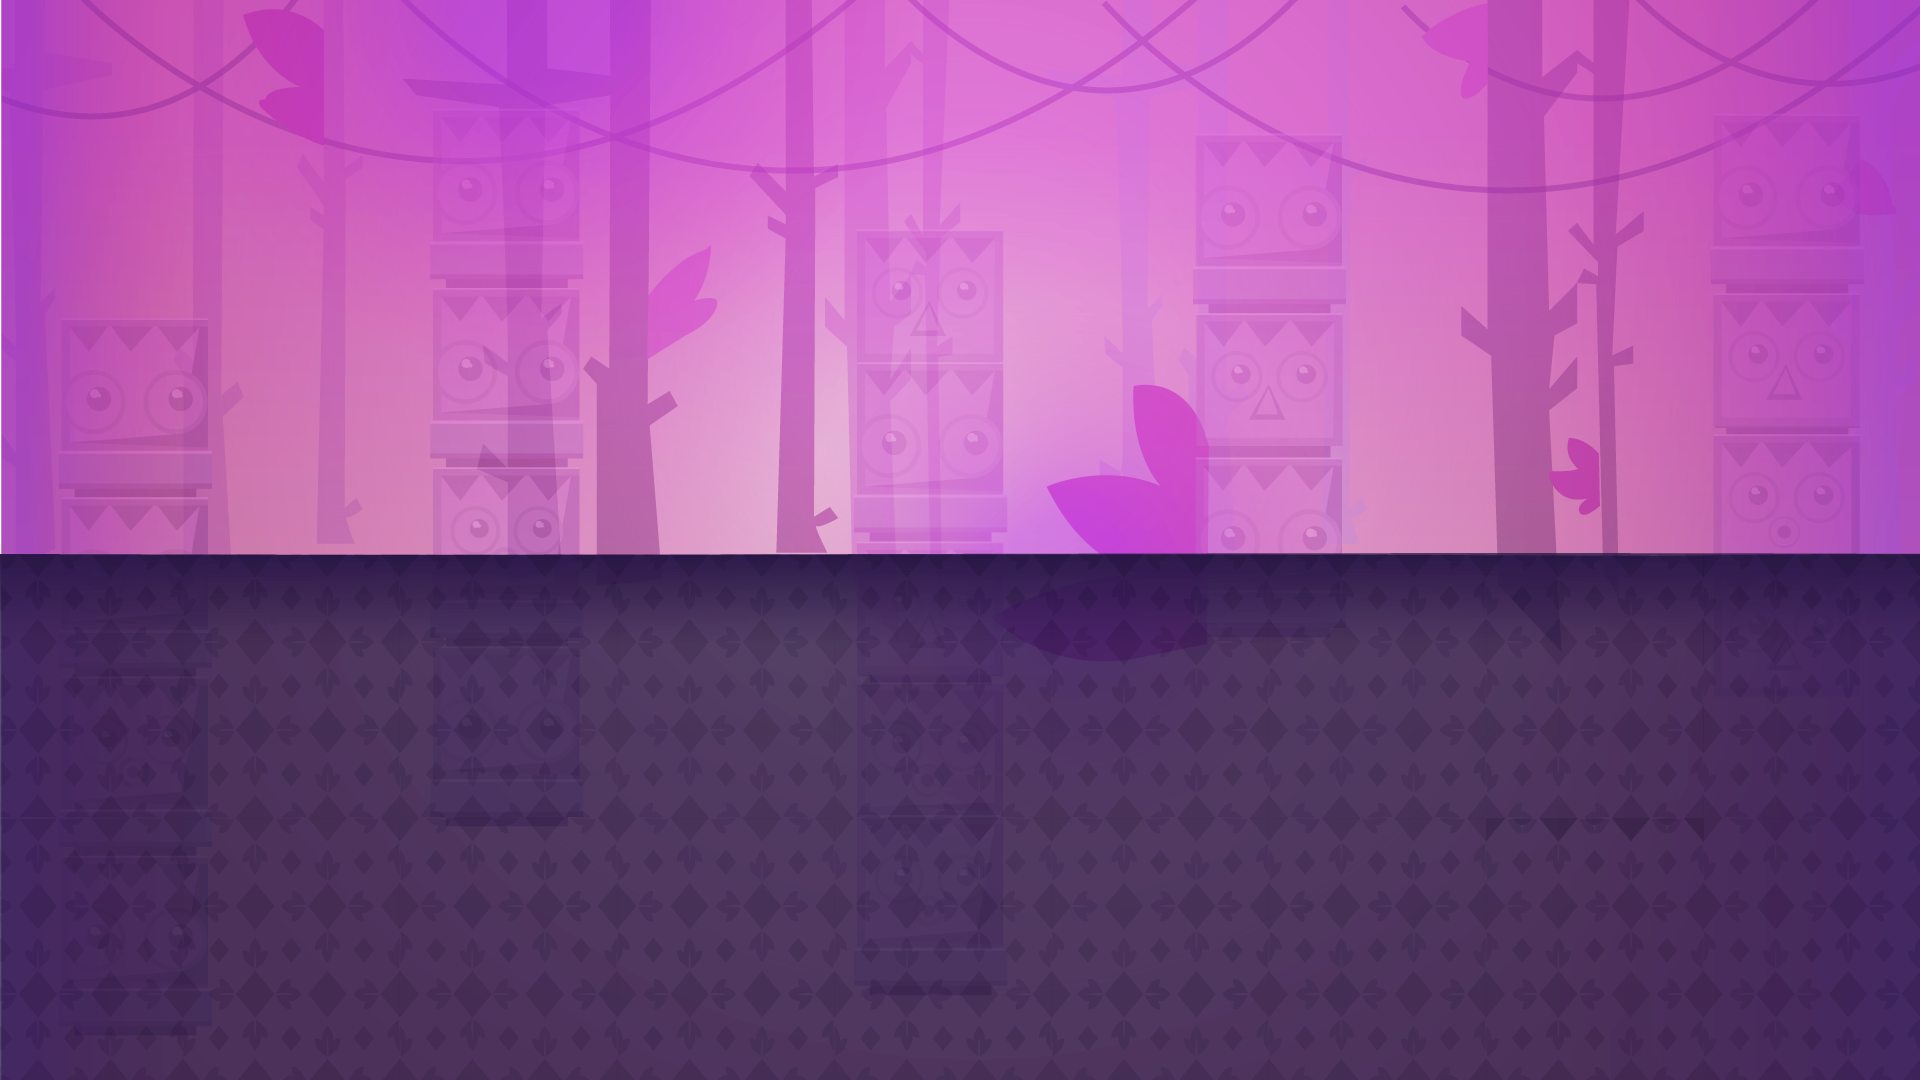
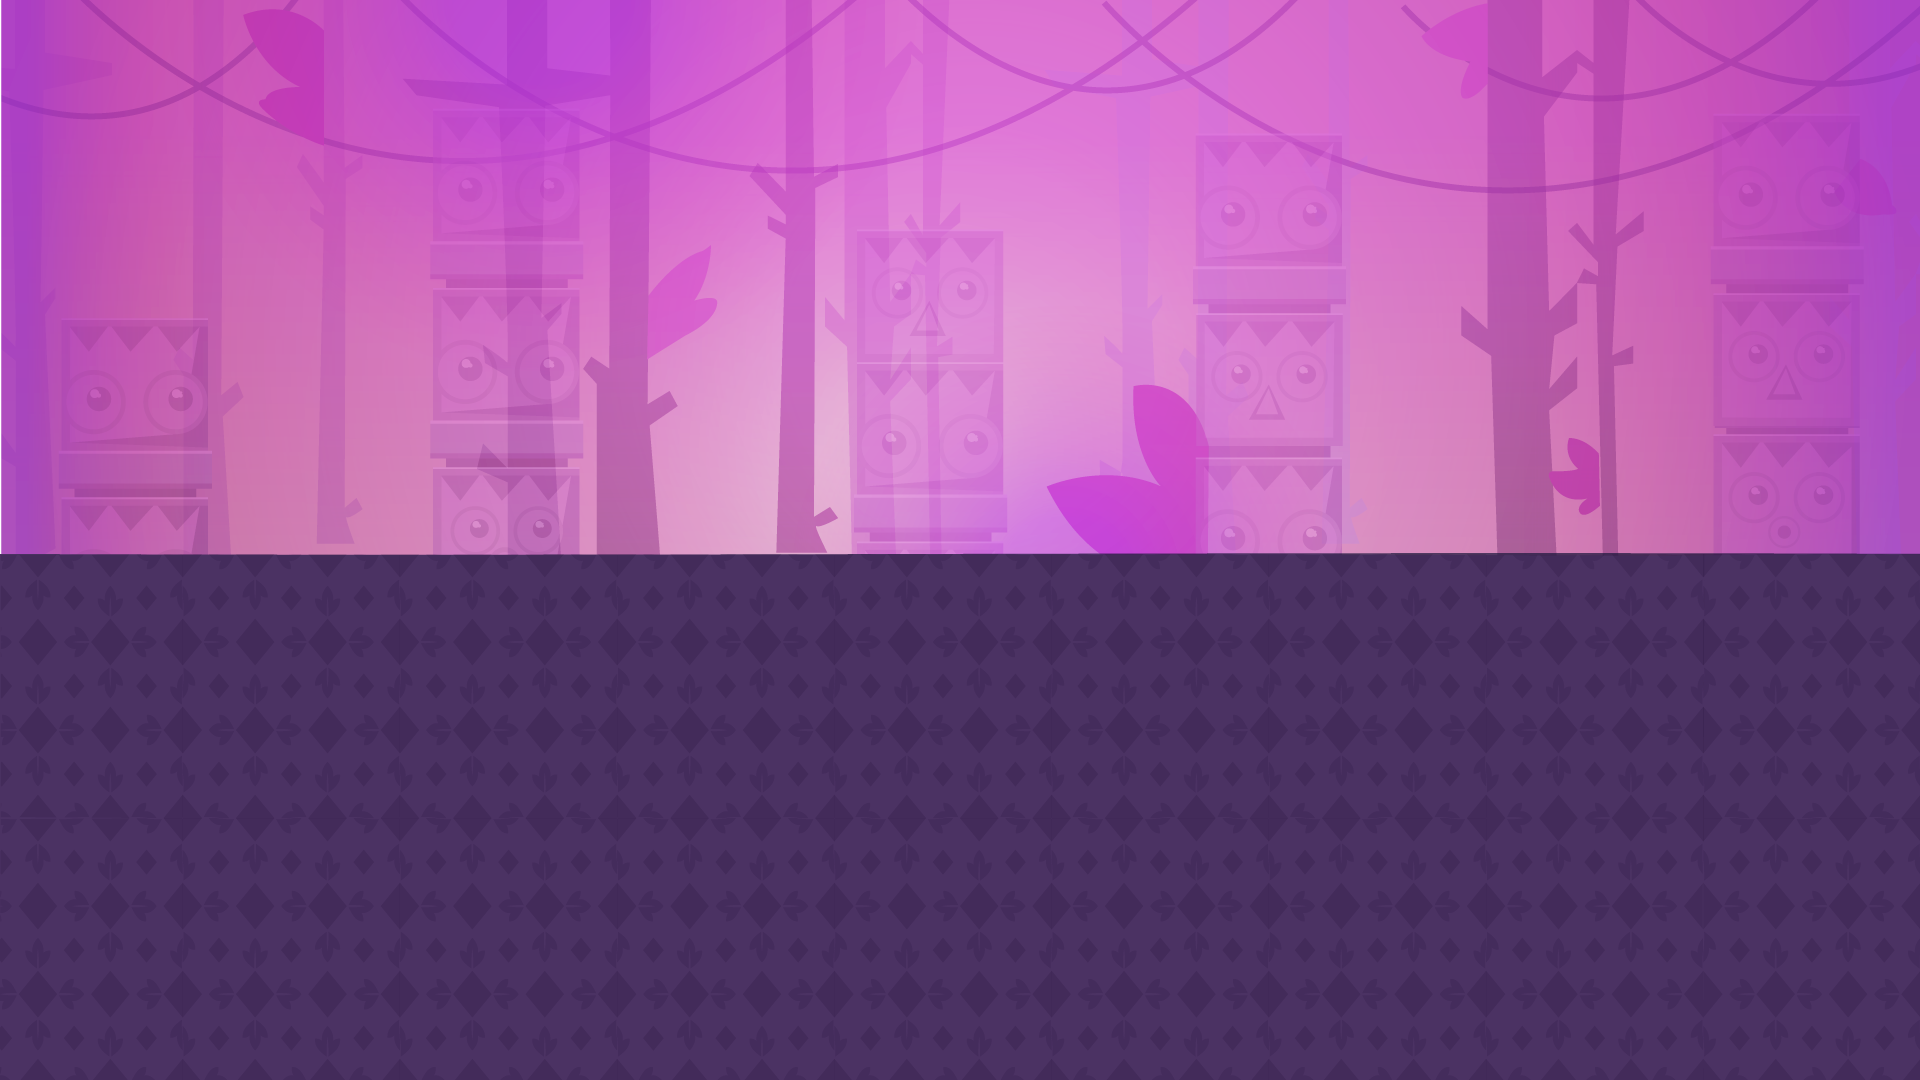
change space between barriers

Changed region(s): [[0.0, 0.4889, 1.0, 0.55]]

diff --git a/src/scenes/Level.js b/src/scenes/Level.js
@@ -42,88 +42,13 @@ class Level extends Phaser.Scene {
 		container_background.add(upper_background);
 
 		// background
-		const background = this.add.image(960, 537, "background");
+		const background = this.add.image(960, 536, "background");
 		background.name = "background";
 		container_background.add(background);
 
 		// container_barriers
 		const container_barriers = this.add.container(0, 1);
 		body.add(container_barriers);
-
-		// barrier_1
-		const barrier_1 = this.add.image(1120, 548, "blue-barrier");
-		barrier_1.setOrigin(0.5, 1);
-		container_barriers.add(barrier_1);
-
-		// barrier_2
-		const barrier_2 = this.add.image(2589, 545, "pink-barrier");
-		barrier_2.setOrigin(0.5, 0);
-		container_barriers.add(barrier_2);
-
-		// barrier_3
-		const barrier_3 = this.add.image(4032, 548, "blue-barrier");
-		barrier_3.setOrigin(0.5, 1);
-		container_barriers.add(barrier_3);
-
-		// barrier_4
-		const barrier_4 = this.add.image(4032, 545, "pink-barrier");
-		barrier_4.setOrigin(0.5, 0);
-		container_barriers.add(barrier_4);
-
-		// barrier_5
-		const barrier_5 = this.add.image(5245, 548, "blue-barrier");
-		barrier_5.setOrigin(0.5, 1);
-		container_barriers.add(barrier_5);
-
-		// barrier_6
-		const barrier_6 = this.add.image(6214, 548, "blue-barrier");
-		barrier_6.setOrigin(0.5, 1);
-		container_barriers.add(barrier_6);
-
-		// barrier_7
-		const barrier_7 = this.add.image(7187, 545, "pink-barrier");
-		barrier_7.setOrigin(0.5, 0);
-		container_barriers.add(barrier_7);
-
-		// barrier_8
-		const barrier_8 = this.add.image(8257, 548, "blue-barrier");
-		barrier_8.setOrigin(0.5, 1);
-		container_barriers.add(barrier_8);
-
-		// barrier_9
-		const barrier_9 = this.add.image(9330, 545, "pink-barrier");
-		barrier_9.setOrigin(0.5, 0);
-		container_barriers.add(barrier_9);
-
-		// barrier_10
-		const barrier_10 = this.add.image(10691, 548, "blue-barrier");
-		barrier_10.setOrigin(0.5, 1);
-		container_barriers.add(barrier_10);
-
-		// barrier_11
-		const barrier_11 = this.add.image(10691, 606.5, "pink-barrier");
-		barrier_11.setOrigin(0.5, 0);
-		container_barriers.add(barrier_11);
-
-		// barrier_12
-		const barrier_12 = this.add.image(12316, 428, "blue-barrier");
-		barrier_12.setOrigin(0.5, 1);
-		container_barriers.add(barrier_12);
-
-		// barrier_13
-		const barrier_13 = this.add.image(12316, 632, "pink-barrier");
-		barrier_13.setOrigin(0.5, 0);
-		container_barriers.add(barrier_13);
-
-		// barrier_14
-		const barrier_14 = this.add.image(13370, 701.7000122070312, "pink-barrier");
-		barrier_14.setOrigin(0.5, 0);
-		container_barriers.add(barrier_14);
-
-		// barrier_15
-		const barrier_15 = this.add.image(14157, 545, "pink-barrier");
-		barrier_15.setOrigin(0.5, 0);
-		container_barriers.add(barrier_15);
 
 		// container_balls
 		const container_balls = this.add.container(0, -7);
@@ -144,7 +69,7 @@ class Level extends Phaser.Scene {
 		// score_text
 		const score_text = this.add.text(834, 55, "", {});
 		score_text.setOrigin(0, 0.5);
-		score_text.text = "Score:   00";
+		score_text.text = "Score:   00 ";
 		score_text.setStyle({ "align": "center", "color": "#431b59", "fontFamily": "Bungee", "fontSize": "40px", "fontStyle": "italic" });
 		container_score.add(score_text);
 
@@ -268,7 +193,7 @@ class Level extends Phaser.Scene {
 			if (!this.scene.isPaused("Level")) {
 				this.score++;
 			}
-		}, 100);
+		}, 500);
 	}
 	clearTimer() {
 		clearInterval(this.scoreInterval);
@@ -307,26 +232,27 @@ class Level extends Phaser.Scene {
 		localStorage.setItem("shadowLeapCurrentScore", 0);
 		this.nSpeed = 20;
 		this.isPointerDown = false;
-		this.gameOver = false;
+		this.gameOver = true;
 		this.clearTimer();
 		this.barriarGroup = this.add.group();
 		this.ballGroup = this.physics.add.group();
-
+		
 		this.oInputManager.buttonClick(this.retry_button);
 		this.oInputManager.buttonClick(this.home_button);
 		this.oInputManager.buttonClick(this.sound_button);
 		this.oInputManager.buttonClick(this.music_button);
-
-		this.upper_ball = this.ballGroup.create(188, 543, "fire-ball")
+		
+		this.upper_ball = this.ballGroup.create(188, 544, "fire-ball")
 		this.upper_ball.setOrigin(0.5, 1);
 		this.upper_ball.body.setCircle(65, 55, 36).setGravityY(3000).setCollideWorldBounds(true);
 		this.container_balls.add(this.upper_ball);
 		this.lower_ball = this.ballGroup.create(188, 541, "Ice-ball");
 		this.lower_ball.setOrigin(0.5, 0);
-		this.lower_ball.body.setCircle(65, 55, 40).setGravityY(-3000).setCollideWorldBounds(true);
+		this.lower_ball.body.setCircle(65, 55, 40).setGravityY(-3000).setCollideWorldBounds(true).setBounceY(0.9);
 		this.container_balls.add(this.lower_ball);
-
+		
 		this.particalAnimation();
+		this.setBarriers();
 
 		this.container_background.list.forEach((background) => {
 			if (background.name != "background") {
@@ -335,34 +261,12 @@ class Level extends Phaser.Scene {
 				background.body.setOffset(0, 0);
 				background.body.immovable = true;
 			}
-		})
-
-		this.container_barriers.list.forEach((barrier) => {
-			this.physics.add.existing(barrier, true);
-			barrier.body.setSize(145, 110);
-			if (barrier.texture.key == "blue-barrier") {
-				barrier.body.setOffset(1, 8);
-			}
-			else {
-				barrier.body.setOffset(1, 16);
-			}
-			this.barriarGroup.add(barrier);
-		})
+		});
 
 		this.ballCollider = this.physics.add.collider(this.lower_ball, this.upper_ball, () => {
-			// if (this.score > 50 && this.score < 100) {
-			// 	this.nSpeed = 28;
-			// }
-			// if (this.score > 100 && this.score < 200) {
-			// 	this.nSpeed = 32;
-			// }
-			// if (this.score > 200) {
-			// 	this.nSpeed = 38;
-			// }
 			this.lower_ball.body.setBounceY(0.9);
 			this.lower_ball.setX(this.upper_ball.x);
 		})
-
 
 		this.physics.add.collider(this.lower_ball, this.upper_background, () => {
 			this.lower_ball.body.setVelocityY(0);
@@ -374,6 +278,8 @@ class Level extends Phaser.Scene {
 		this.physics.add.collider(this.ballGroup, this.barriarGroup, (barrier, ball) => {
 			this.physics.pause();
 			clearInterval(this.scoreInterval);
+			clearInterval(this.generateBarrierInterval);
+			clearInterval(this.generationSpeedInterval);
 			this.gameOver = true;
 			localStorage.setItem("shadowLeapCurrentScore", this.score - 1);
 			Number(localStorage.getItem('shadowLeapBestScore')) <= Number(this.score - 1) ?
@@ -390,23 +296,85 @@ class Level extends Phaser.Scene {
 			this.isPointerDown = false;
 		})
 	}
+	setBarriers() {
+		let barrierCount = 0;
+		this.nTime = 500;
+		this.nMax = 2500;
+		this.nMin = 1500;
+		this.generationSpeed = 0;
 
+		const generateLowerBarriers = () => {
+			const nRandomXLower = Math.floor(Math.random() * (this.nMax - this.nMin)) + this.nMin;
+			let lower_barrier;
+			if (barrierCount > 3) {
+				barrierCount = 0;
+				this.nTime = 500;
+				lower_barrier = this.physics.add.staticSprite(this.container_barriers.list[this.container_barriers.list.length - 1].x, 545, "pink-barrier").setOrigin(0.5, 0);
+			}
+			else {
+				this.nTime = 1000;
+				lower_barrier = this.physics.add.staticSprite(this.container_barriers.list[this.container_barriers.list.length - 1].x + nRandomXLower, 545, "pink-barrier").setOrigin(0.5, 0);
+			}
+			this.barriarGroup.add(lower_barrier);
+			lower_barrier.setSize(150, 100);
+			lower_barrier.setOffset(0, 90);
+			this.container_barriers.add(lower_barrier);
+		}
+		const generateUpperBarriers = () => {
+			const nRandomXUpper = Math.floor(Math.random() * (this.nMax - this.nMin)) + this.nMin;
+			let upper_barrier;
+			if (this.container_barriers.list.length <= 0) {
+				upper_barrier = this.physics.add.staticSprite(nRandomXUpper, 550, "blue-barrier").setOrigin(0.5, 1);
+			}
+			else {
+				upper_barrier = this.physics.add.staticSprite(this.container_barriers.list[this.container_barriers.list.length - 1].x + nRandomXUpper, 550, "blue-barrier").setOrigin(0.5, 1);
+			}
+			this.barriarGroup.add(upper_barrier);
+			upper_barrier.setSize(150, 100);
+			upper_barrier.setOffset(0, -50);
+			this.container_barriers.add(upper_barrier);
+			barrierCount++;
+			generateLowerBarriers();
+		}
+		this.generateBarrierInterval = setInterval(() => {
+			if (this.generationSpeed > 50 && this.generationSpeed < 100) {
+				this.nMax = 2000;
+				this.nMin = 1000;
+			}
+			if (this.generationSpeed > 100 && this.generationSpeed < 150) {
+				this.nMax = 1500;
+				this.nMin = 1000;
+			}
+			if (this.generationSpeed > 150) {
+				this.nMax = 1000;
+				this.nMin = 700;
+			}
+			generateUpperBarriers();
+			this.gameOver = false;
+		}, this.nMax / 5);
+		this.generationSpeedInterval = setInterval(() => {
+			this.generationSpeed++;
+		}, 100);
+	}
 	update() {
 		if (!this.gameOver) {
 			let cursors = this.input.keyboard.createCursorKeys();
-			if (cursors.up.isDown || this.isPointerDown) {
+			if (this.isPointerDown || cursors.up.isDown) {
 				this.upper_ball.body.setVelocityY(-2000);
 			}
 			this.container_barriers.getAll().forEach((barrier) => {
 				if (barrier.x < -200) {
-					barrier.x += 14037;
-					barrier.body.x += 14037;
+					// barrier.x += 14037;
+					// barrier.body.x += 14037;
+					barrier.destroy();
 				}
-				barrier.x -= this.nSpeed;
-				barrier.body.x -= this.nSpeed;
+				else {
+					barrier.x -= this.nSpeed;
+					barrier.body.x -= this.nSpeed;
+				}
 			})
-			if (this.nSpeed < 50) {
-				this.nSpeed += 0.01;
+			if (this.nSpeed < 40) {
+				this.nSpeed += 0.004;
 			}
 		}
 	}
